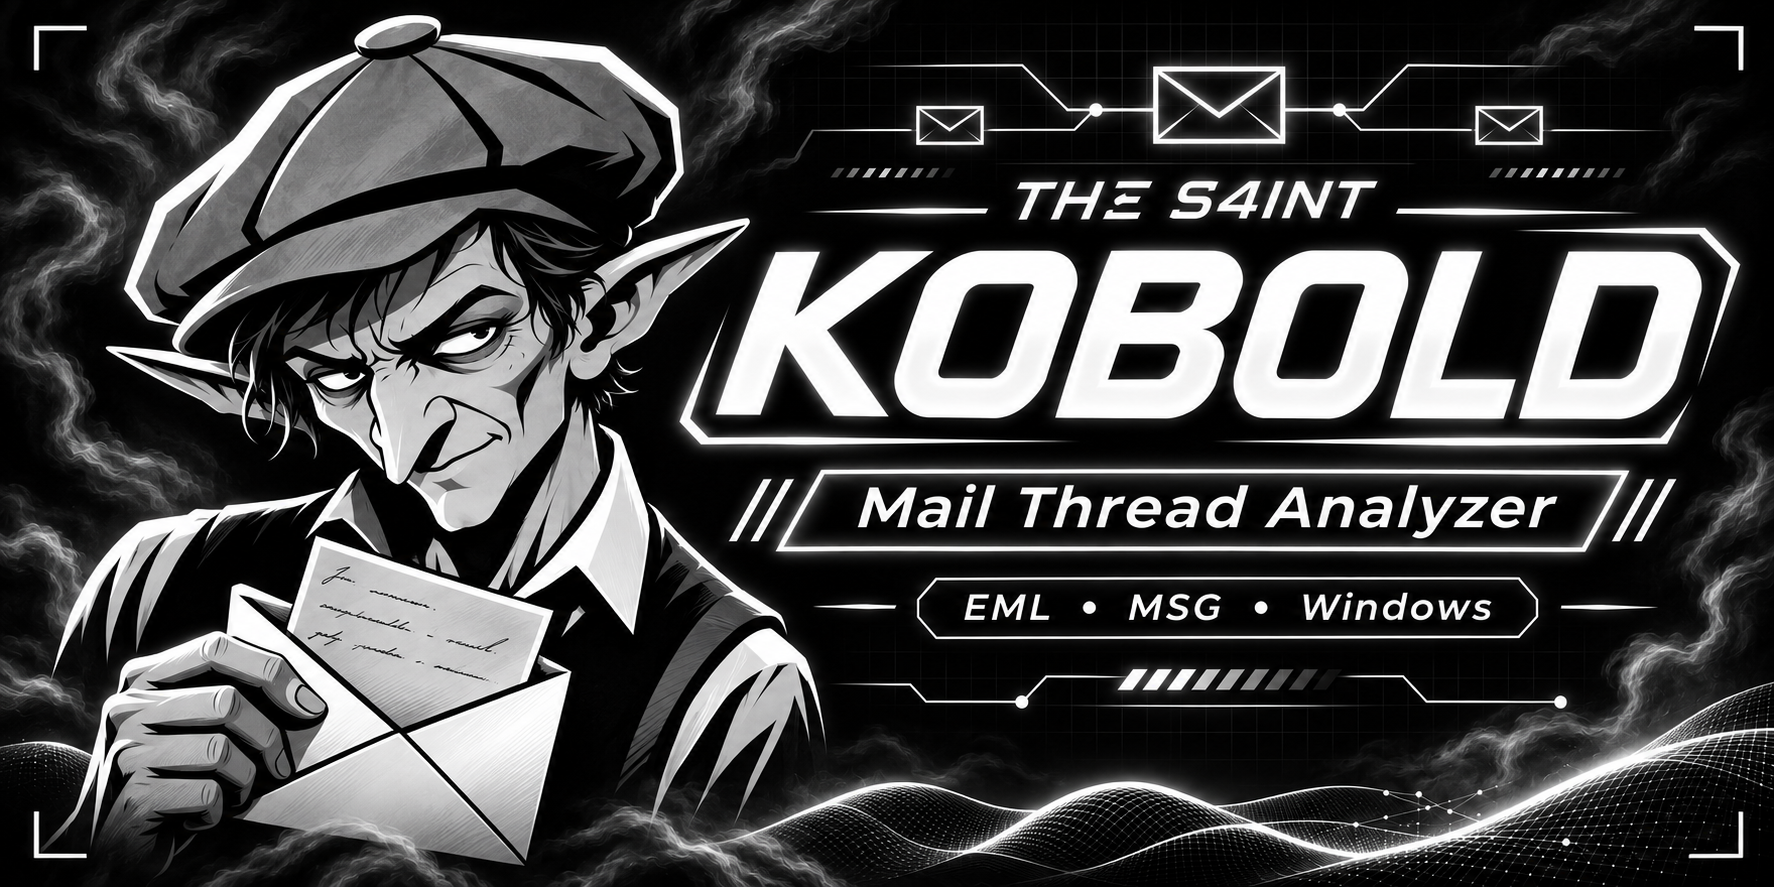
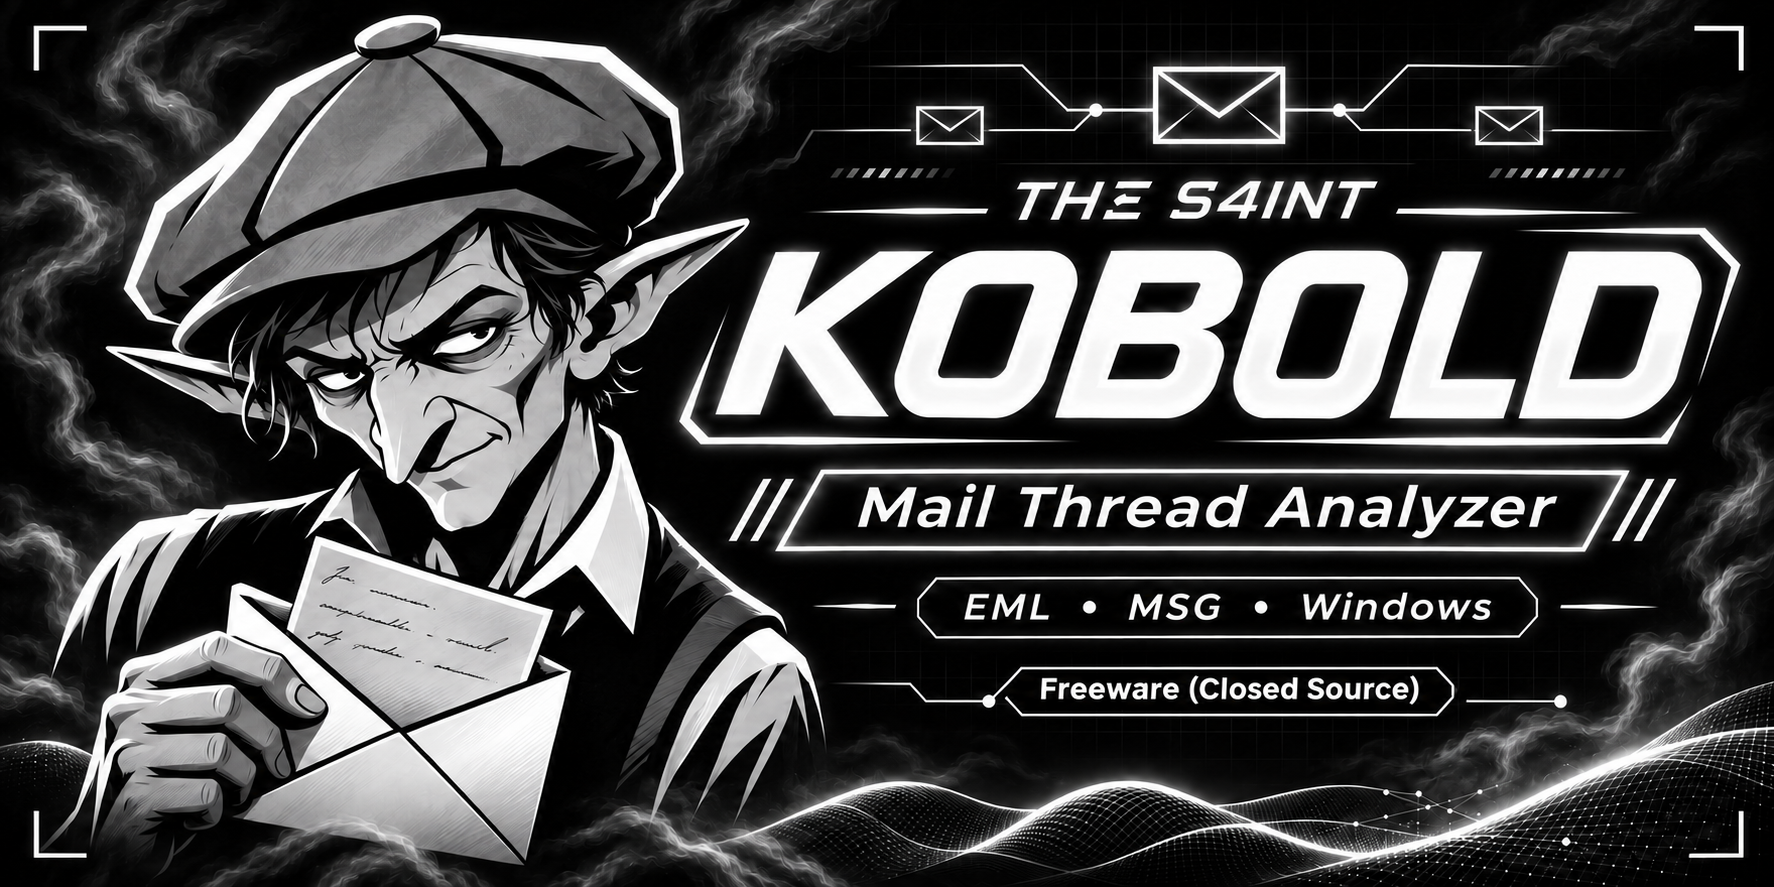
KOBOLD als Freeware (Closed Source) kennzeichnen

diff --git a/README.md b/README.md
@@ -1,8 +1,10 @@
-![KOBOLD – Mail Thread Analyzer für Windows. Der Kobold hält einen offenen Briefumschlag.](./thes4int-kobold-banner.png)
+![KOBOLD – Mail Thread Analyzer für Windows, Freeware (Closed Source). Der Kobold hält einen offenen Briefumschlag.](./thes4int-kobold-banner.png)
 
 # THΞ S4INT · KOBOLD
 
 **KOBOLD** unterstützt Helpdesk und Security-Teams bei der Erstprüfung verdächtiger E-Mails. Die Windows-App analysiert exportierte `.eml`- und `.msg`-Dateien und fasst Befunde für die Übergabe zusammen.
+
+**Freeware (Closed Source)** · KOBOLD ist kostenlos nutzbar. Der Quellcode der Anwendung bleibt privat.
 
 ## Funktionen
 
